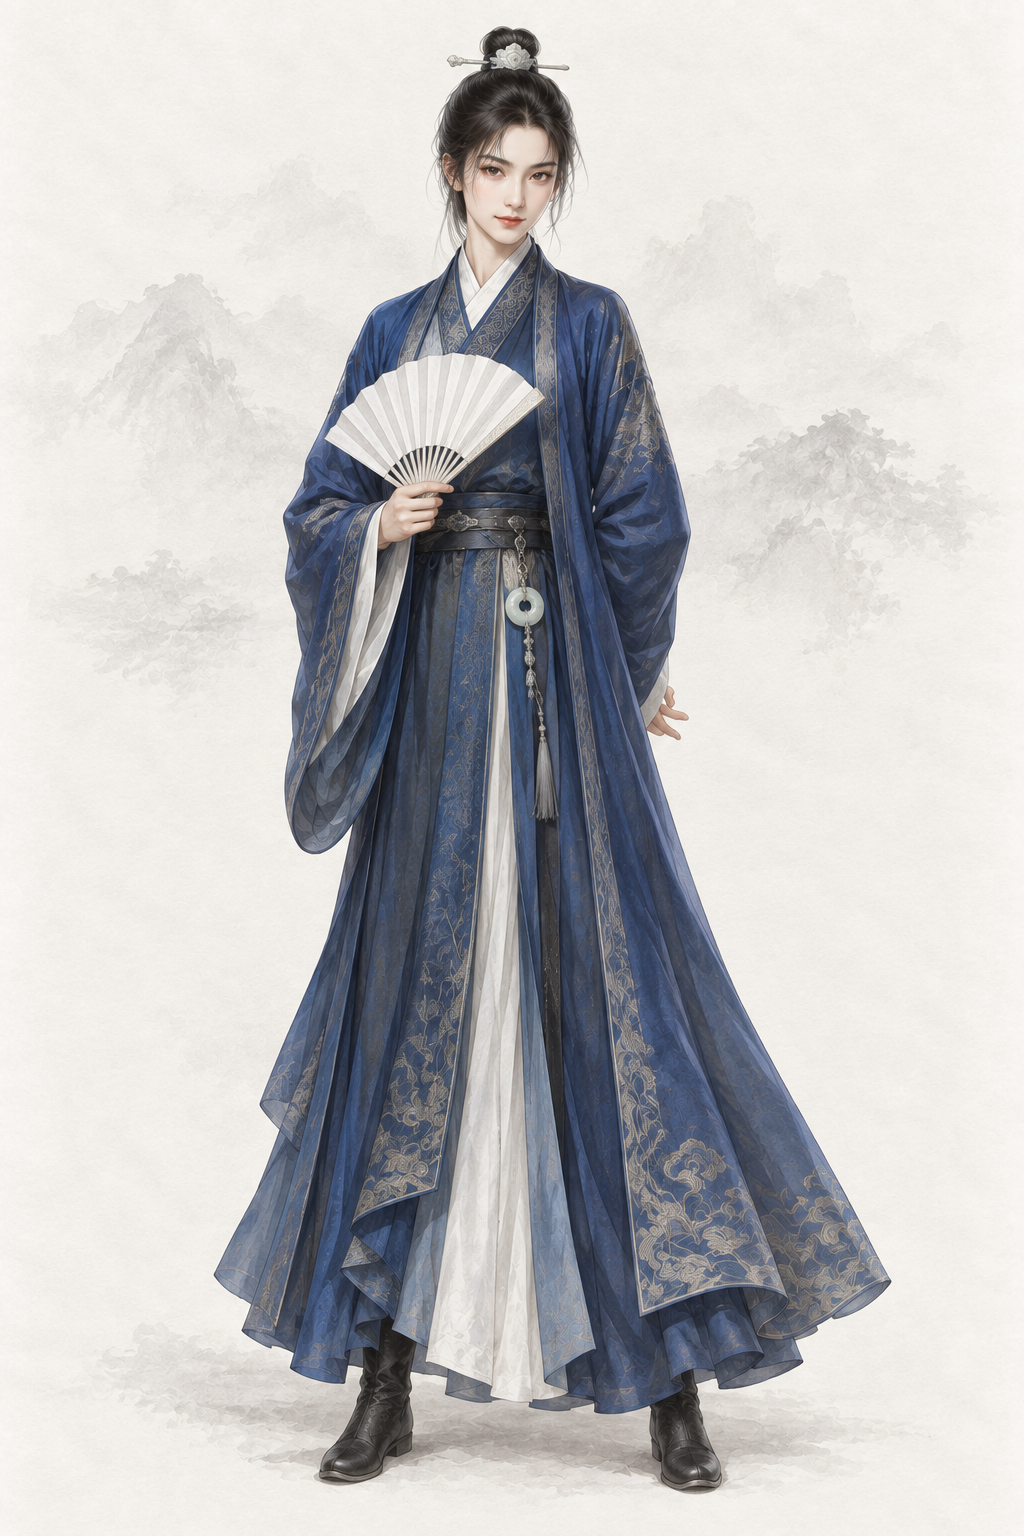
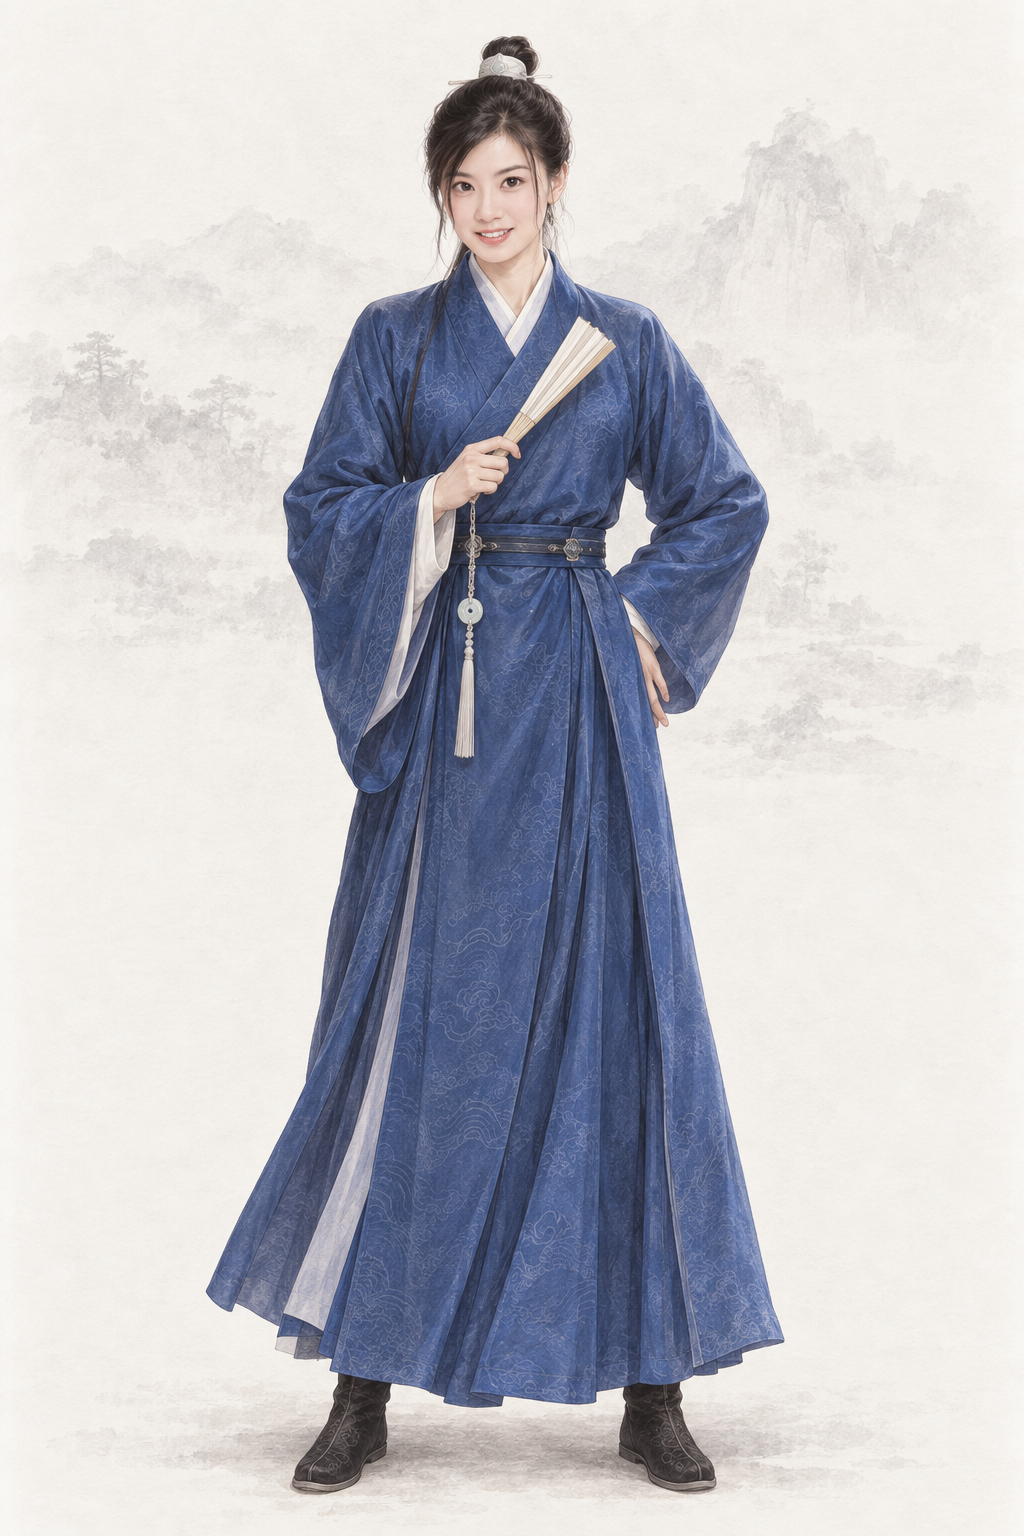
assets(character): por_npc_zhaomin__ch04_youth_lvliu_base 赵敏（codex，AR-32 经典版）
参考 2003 年苏有朋、贾静雯版《倚天屠龙记》（作者 AR-32 指定） 剧照与项目基线重出；剧照只作出图参考，不入库。

diff --git a/assets/default/prompts/characters/ch04-yitian/npc_zhaomin.md b/assets/default/prompts/characters/ch04-yitian/npc_zhaomin.md
@@ -12,10 +12,19 @@ references:
   - path: assets/default/baseline/character/female/ref_npc_wangyuyan__ch01_base01.png
     use: 当前工作区 manifest 为 approved，已批准；仅参考纸底、左上柔光、笔触与低饱和设色，不沿用脸、体型、服饰或道具
 status: new
-redo_reason: "S 级女主赵敏没有基础立绘（只有五幅场景），且场景脸源自 1993 版剧照；按原著绿柳山庄初见“宝蓝绸衫、白玉柄折扇、相貌俊美异常、双目炯炯”的男装公子形象原创补出，并带动五幅场景重出"
+redo_reason: "AR-32：主要角色参考经典影视版剧照（2003 年版）加基线重出（10-02，7 号出图员）"
 reference_upload:
+- .agents/coord/imagegen-reference/identity-20261002/yitian/zhaomin_2003_jiajingwen_sohu2024a.jpg
+- .agents/coord/imagegen-reference/identity-20261002/yitian/zhaomin_2003_jiajingwen_tvsou.jpg
 - assets/default/baseline/character/female/ref_npc_wangyuyan__ch01_base01.png
+- assets/default/baseline/character/female/ref_npc_xiaolongnv__ch03_base01.png
 codex_prompt_rev: 2026-10-02
+classic_ref:
+  version: 2003 年苏有朋、贾静雯版《倚天屠龙记》（作者 AR-32 指定）
+  actor: 贾静雯
+  stills:
+  - .agents/coord/imagegen-reference/identity-20261002/yitian/zhaomin_2003_jiajingwen_sohu2024a.jpg
+  - .agents/coord/imagegen-reference/identity-20261002/yitian/zhaomin_2003_jiajingwen_tvsou.jpg
 ---
 
 <!-- full-coverage-import:current-policy:v1 -->
@@ -28,6 +37,28 @@ codex_prompt_rev: 2026-10-02
 # 赵敏 · 《倚天屠龙记》（ch04）
 
 ## Gemini 提示词
+
+> 2026-10-02 AR-32 改写（7 号出图员，codex exec · image_gen 出图）：主要角色参考经典影视版剧照重出——2003 年苏有朋、贾静雯版《倚天屠龙记》（作者 AR-32 指定）。按顺序上传剧照 2 张（zhaomin_2003_jiajingwen_sohu2024a.jpg、zhaomin_2003_jiajingwen_tvsou.jpg，在主检出 .agents/coord/imagegen-reference/identity-20261002/，不入库）取发型、服饰、配色、气质与面部特征，再上传两张同性别缩小版基线（放在最后）取画风；要求重新绘制成项目画风，不复制照片。提示词里不写演员名。上一版保留在后文作历史。
+
+```text
+生成一张 2:3 竖幅全身人物立绘：单人、单一视角、完整全身——头顶、双手、双脚和手中器物的两端都在画面内，四周留出自然空白；人物站姿自然，身体基本朝向正面，头部端正（不歪头、不仰不俯），镜头平视。
+【画风】写实手绘古风人物插画，与本项目写实武侠角色立绘同一画风，像功力深厚的画师用细腻笔触画出的真实美人。手绘插画质感，不是 CG 渲染：不要过度光滑的皮肤、完美对称的五官、塑料高光、过度锐利的发丝；保留自然的笔触和细微不完美。肌肤细腻自然，看得见极细的肤理和自然的左右不对称，不磨皮、不油亮、不打粉；头发是一缕缕自然的发丝和少量碎发；布料看得出经纬纹理、厚薄和自然垂坠的褶皱，干净完整；整体设色低饱和、雅致；柔和的自然光从左上方照来，明暗过渡自然，不打舞台光、轮廓光或美颜柔光。不是照片，不是三维渲染，不是动漫或游戏 CG，也不是油画（没有厚涂笔触和画布纹理）。
+【背景】不透明的暖浅灰色纸底，只在远处有极淡的水墨远山和薄雾，大面积留白；人物与背景明暗分明、轮廓边缘干净完整（后续要自动抠图），水墨和纸纹只在背景里，不侵入人物和衣服；脚下只有很淡的一点接触阴影。
+【剧照参考】随提示词上传的第 1、2 张参考图是这个角色经典影视造型的剧照：借鉴其发型、服饰、配色、标志道具、气质和面部特征（脸型、眉眼、鼻唇的比例与神态），让人一眼认出是这个角色；但必须重新绘制成本项目画风的手绘写实插画，不要照片质感，不要照搬剧照的构图、取景、光影、背景和姿势，也不要做成照片修图或磨皮美颜；剧照里的影楼柔光、浓妆、字幕和水印都不要。最后两张是本项目画风基线：画风、用色、光线、质感和暖浅灰纸底加淡水墨背景以它们为准。
+【人物】赵敏，《倚天屠龙记》元朝汝阳王府的郡主（蒙古贵族），本名敏敏特穆尔；绿柳山庄与张无忌等人初见时，女扮男装成一位「赵公子」。聪明绝顶、骄傲大胆、敢爱敢恨。
+重出要求（上一版的问题，这次必须改正）：上一版的脸太窄太像通用美人，不像剧照里的赵敏：脸要更圆润饱满（圆鹅蛋脸、两颊有肉），眉毛更浓更黑、平直粗一些，眼睛更大更圆、双眼皮宽，笑容更开朗——嘴角大大上扬、露出一点上排牙齿，眼睛笑得弯起来；神情俏皮自信。冠饰小而简单（一顶素白玉小冠，不要高耸的银冠）。
+【年龄与体态】约二十岁的成年女子，身材修长利落，扮男装也看得出是女子。成年女性的五官骨相与身体比例（约 7 头身），衣着完整端庄、不透明、不暴露、不性感化。
+【经典造型】照剧照里这一版深入人心的赵敏来画：明艳灵动、顾盼生辉，一双大眼睛又亮又有神，笑起来甜美又带几分狡黠和骄傲；扮成翩翩公子也掩不住明艳的美貌。剧照里的女装、珠网头饰和粉白衣裙只借长相与气质，本图是绿柳山庄的男装公子打扮，衣装以下文为准。
+【面容】照剧照的脸型和五官来画：饱满柔和的鹅蛋脸、下巴小巧；眉毛浓黑、平直略扬，英气十足；一双黑白分明、炯炯有神的大眼睛，双眼皮清楚、眼波灵动；鼻梁秀挺、鼻头小巧；唇形饱满、嘴角上扬含笑；肌肤白皙。原著写这位「少年公子」相貌俊美异常、握扇柄的手白得和白玉扇柄没有分别。明艳照人的美人。
+【发式】乌发束成男子式的整洁发髻，用一顶小巧的白玉冠固定，鬓边垂下一两缕碎发。
+【服饰】原著写她身穿宝蓝绸衫：宝蓝色绸缎长衫（汉式交领右衽的男装长袍），玉白内领，窄腰带上系一块玉佩，深色短靴；雍容华贵。
+【道具】右手执一柄折扇，扇柄是白玉的，扇面素净无字，半合在胸前。
+【姿态与神情】潇洒站立，一手执扇、一手负后；眼神自信而狡黠，嘴角带笑，雍容中透着挑衅。
+【不要】画面里不要任何文字、题款、印章、签名、水印、边框、分格或多视图；不要第二个人；不要幼态（童颜、娃娃脸、婴儿肥、儿童或少年身材、大头小身）；不要塑料感皮肤、磨皮美颜、网红脸（尖下巴大眼高鼻的模板脸）、过度对称、浓妆、偶像式打光、蜡像感；不要照片质感、照片修图感、三维渲染或动漫大眼；不要直接复制剧照的画面；不要歪头、斜镜头；不要多指、缺指（设定的伤残除外）、手与器物粘连或悬空；汉式交领必须右衽（穿着者的左襟压在右襟上），不要左衽（设定为少数民族服制的除外），不要水平镜像；不要现代物品、发光特效、法阵或能量光。不要女装裙子、珠网头饰或花朵胸饰（本图是男装公子）；不要贵妇高冠、蒙古袍；不要倚天剑；不要与周芷若、小昭撞脸。
+【画风基线】随提示词上传的参考图里，最后两张是本项目的立绘画风基线：只参考它们的画风、用色、光线、质感和暖浅灰纸底加淡水墨的背景处理，整体画风必须与它们一致——精细写实的数字手绘插画，不是油画，不要厚涂笔触和画布纹理。基线图只取画风、光线、质感和背景处理，不取长相：不要照搬基线图里人物的长相、年龄、发型、服饰和姿势。
+```
+
+## 上一版 Gemini 提示词（AR-32 改写前，历史，不再用于出图）
 
 > 2026-10-02 AR-31 改写（1 号出图员，codex exec · image_gen 出图）：重要人物借鉴经典影视造型，只写成文字——不写演员名、不上传剧照、原创面孔；主角和美人画得好看，去 AI 味，禁止幼态。出图时上传两张同性别基线立绘作画风参考（放在最后）。审核组原稿保留在下一节作历史。
 
